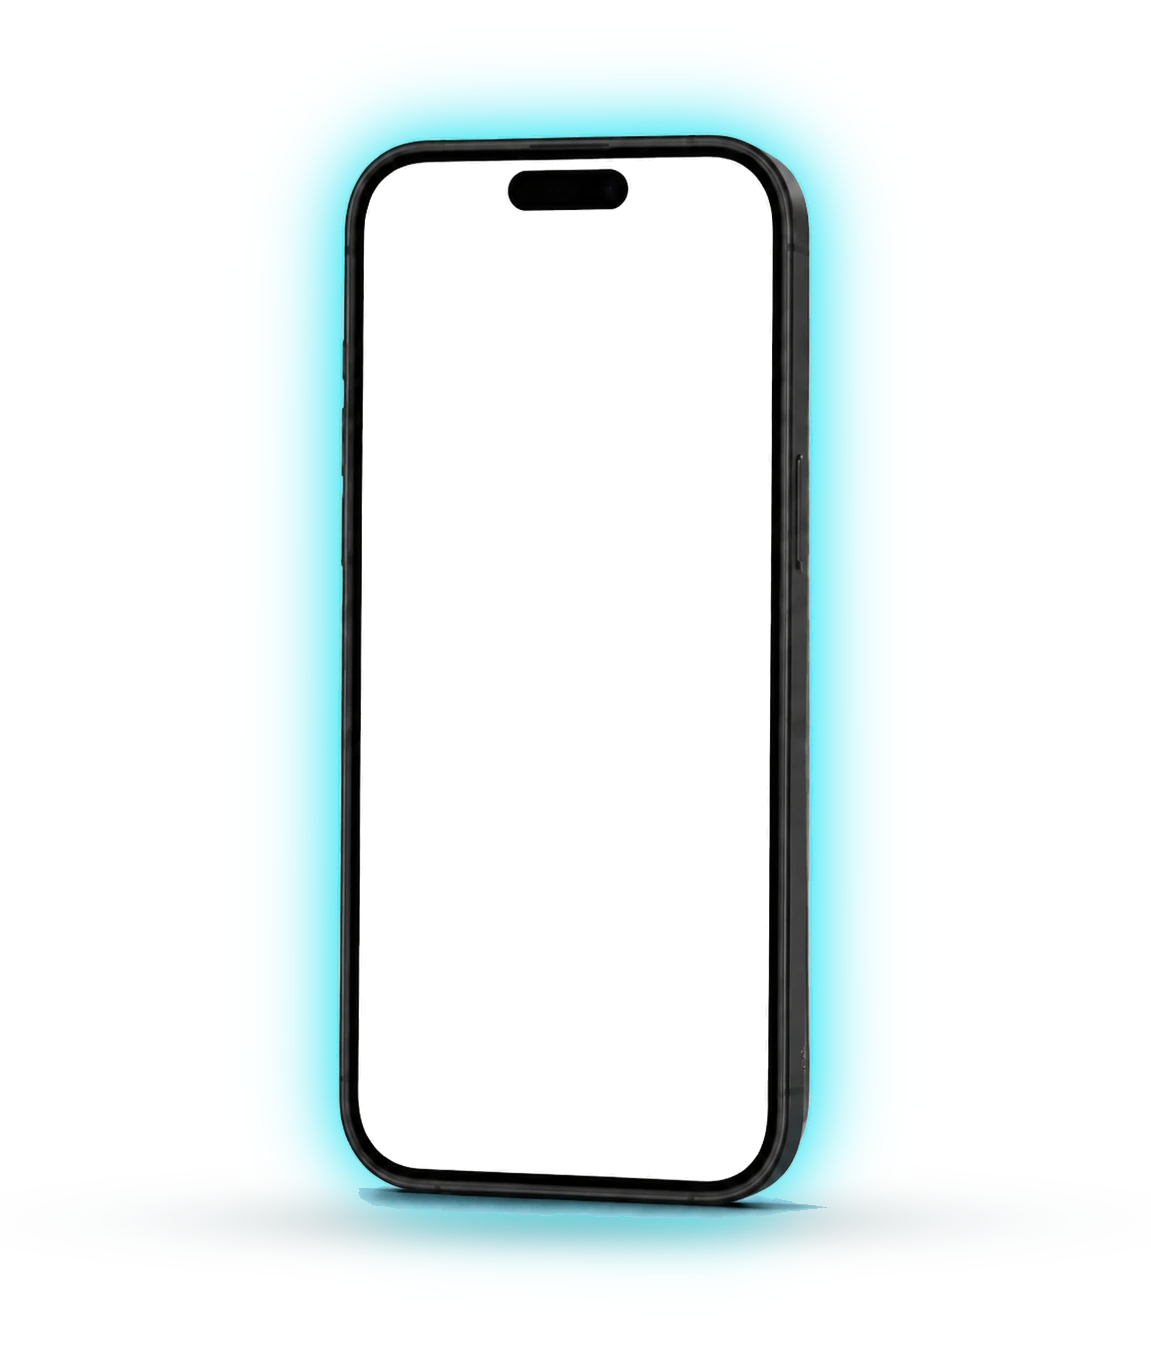
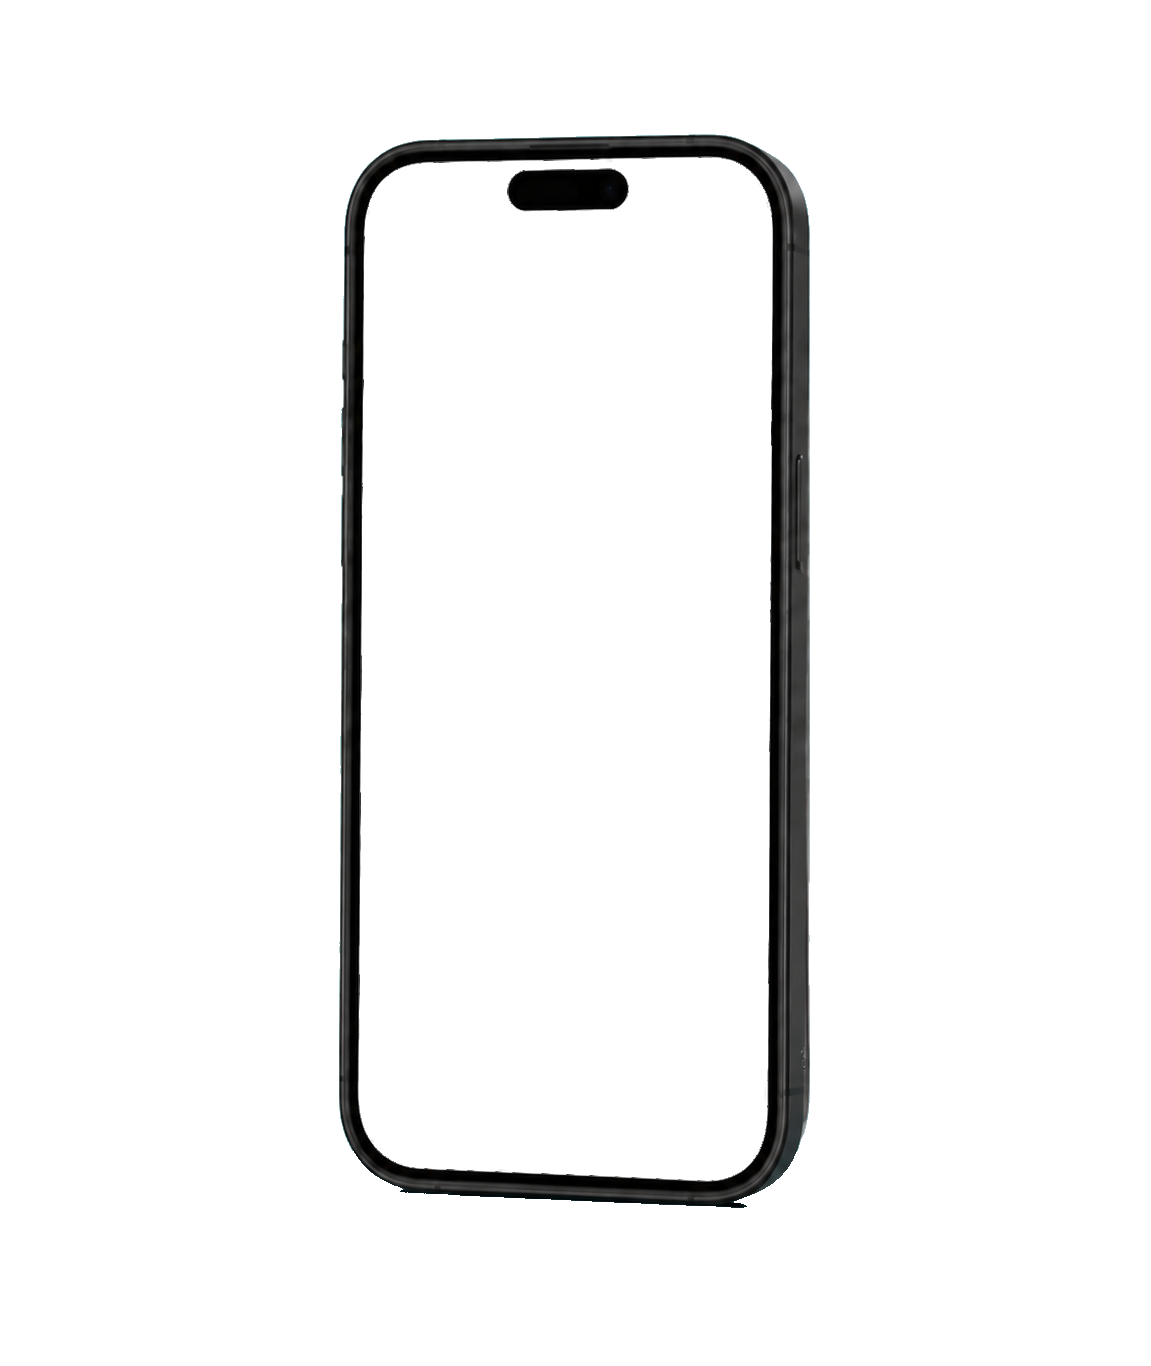
Strip the baked glow from the phone mockup and stand it on a plane
The PNG carried lighting from someone else's scene: a cyan halo around
the body (alpha up to 187 at colour 43,227,242) and a pale puddle under
the base. The puddle is opaque, so alpha alone does not separate it — it
comes off by colour, with a softer threshold below y=1150 where the glow
fades and is no longer that cyan. A flood fill from the border over
"transparent or cyan" gives everything outside the body; of the surviving
pieces only the neutral ones are kept, otherwise the dynamic island goes
with the debris — it is its own component inside the hole.

The hole's geometry is untouched: bbox and corners match to the pixel, so
the homography and clip still hold. Source PNG stays in photo_video.

In place of the glow, .fgh__stage::before puts the phone on a surface: a
wide soft pool plus a dark core right under the edge.

Claude-Session: https://claude.ai/code/session_01FPocEHxgsXeRKy6r783x3f

Changed region(s): [[0.2433, 0.0615, 0.7602, 0.9224]]

diff --git a/style.css b/style.css
@@ -806,6 +806,23 @@ ul { list-style: none; padding: 0; }
 }
 .fgh__stage { position: relative; aspect-ratio: 1151 / 1366; }
 
+/* Тень контакта. В самом PNG было запечено свечение из чужой сцены:
+   бирюзовый ореол вокруг корпуса (альфа до 187 при цвете 43,227,242) и
+   светлая «лужа» под низом — она непрозрачная, поэтому по одной альфе
+   не отделялась и снималась по цвету. Обе убраны из ассета; вместо них
+   телефон ставит на плоскость обычная тень: широкое мягкое пятно плюс
+   узкое тёмное ядро прямо под гранью. Нижняя грань корпуса в файле
+   лежит на y≈1200 из 1366, то есть на 88% высоты сцены. */
+.fgh__stage::before {
+  content: "";
+  position: absolute; z-index: -1;
+  left: 22%; right: 20%; bottom: 4.4%; height: 11%;
+  background:
+    radial-gradient(closest-side, rgba(1,16,22,.52), rgba(1,16,22,0) 100%),
+    radial-gradient(40% 30% at 48% 50%, rgba(0,8,12,.8), rgba(0,8,12,0) 100%);
+  filter: blur(4px);
+}
+
 .fgh__screenclip {
   position: absolute; inset: 0;
   clip-path: polygon(
